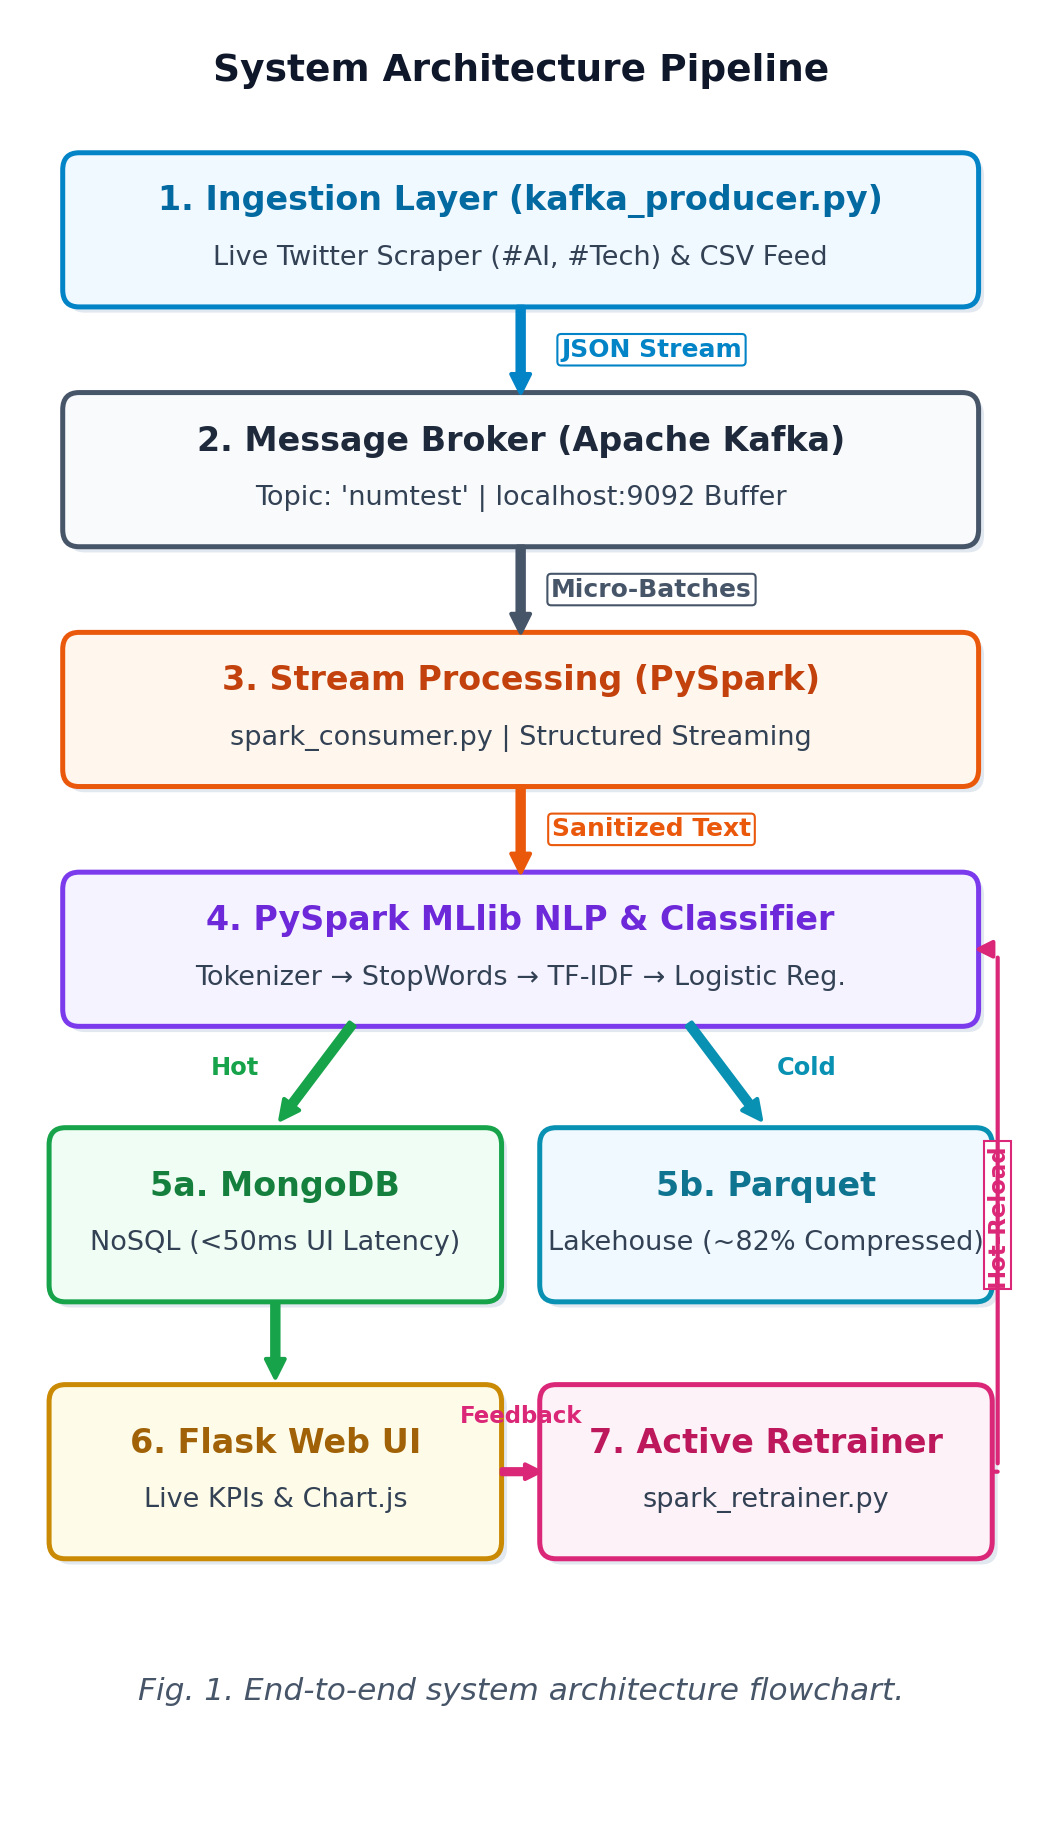
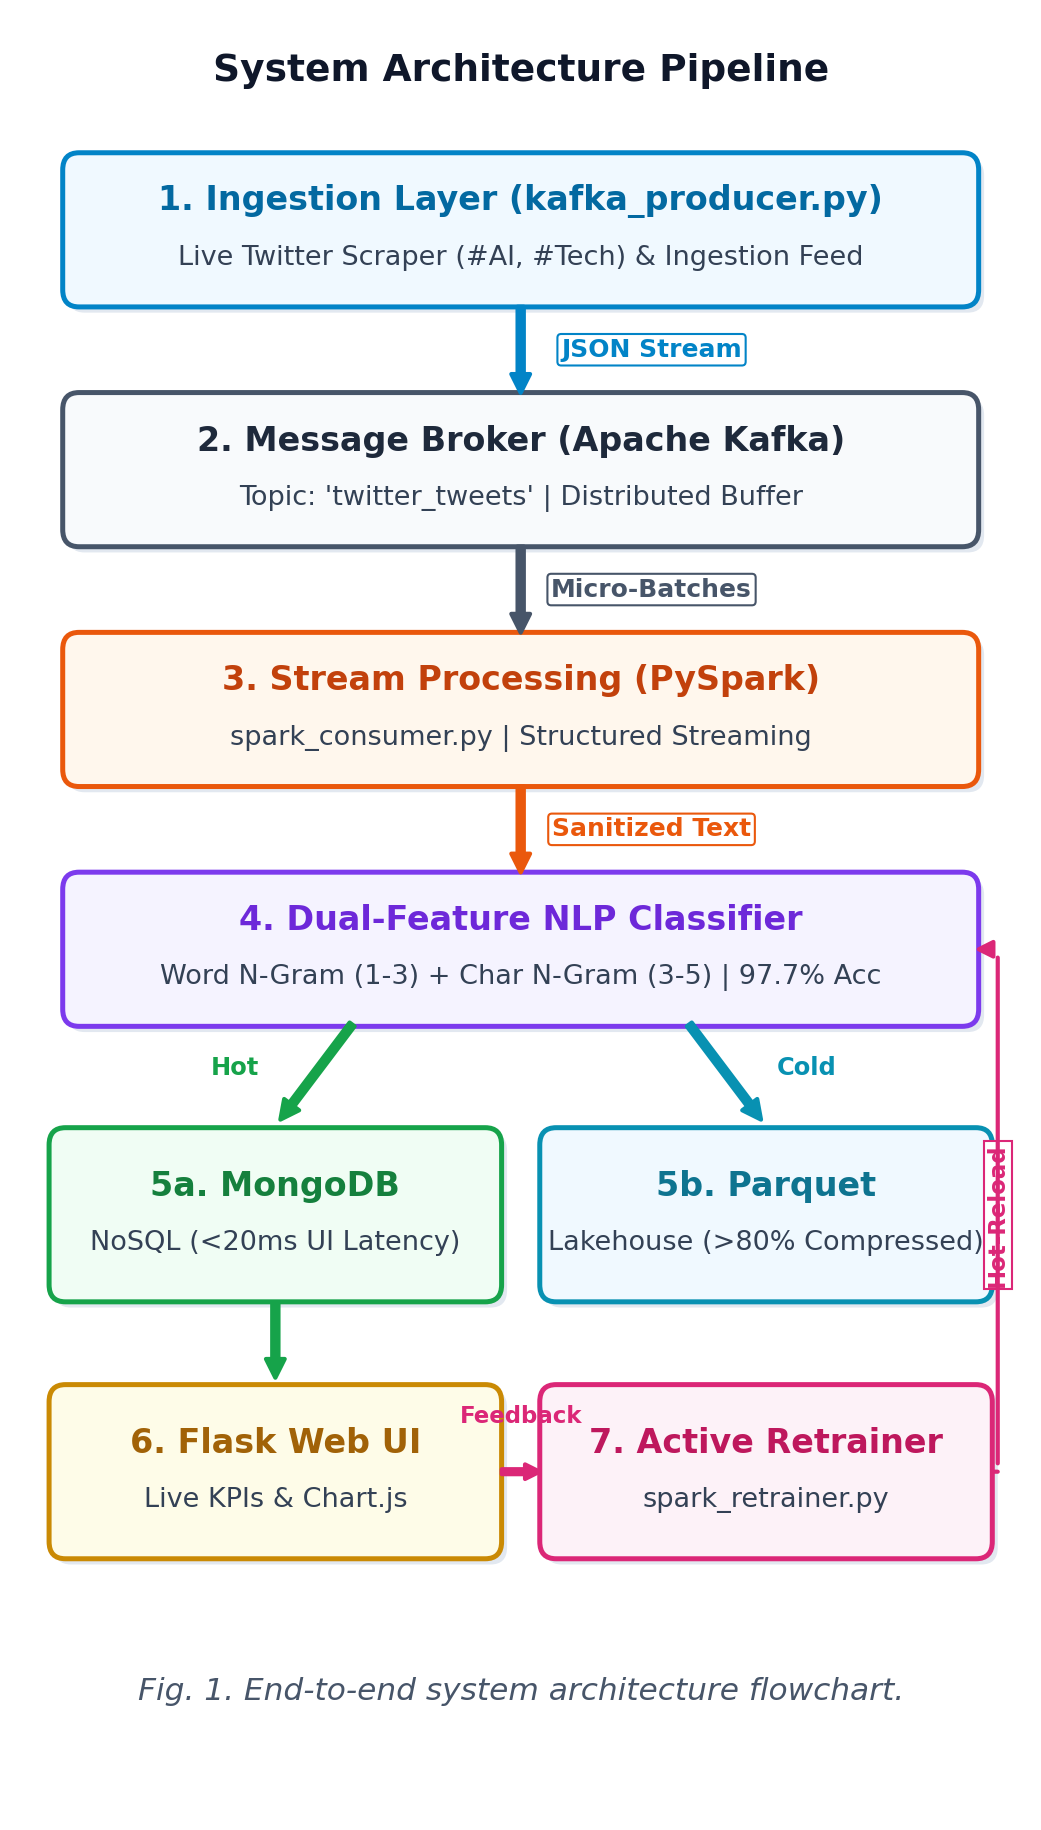
chore(diagrams): regenerate and update high-res architecture diagrams at 300 DPI

Changed region(s): [[0.1537, 0.4984, 0.83, 0.5607], [0.1844, 0.1246, 0.83, 0.1557], [0.2459, 0.2492, 0.7685, 0.2803]]

diff --git a/render_paper_figures.py b/render_paper_figures.py
@@ -52,11 +52,11 @@ def draw_paper_architecture():
     ax.text(1.8, 6.02, "System Architecture Pipeline", fontsize=9.0, fontweight='bold', color='#0f172a', ha='center')
 
     # Step 1: Ingestion
-    paper_card(1.8, 5.5, 3.3, 0.48, "1. Ingestion Layer (kafka_producer.py)", "Live Twitter Scraper (#AI, #Tech) & CSV Feed", "#f0f9ff", "#0284c7", "#0369a1")
+    paper_card(1.8, 5.5, 3.3, 0.48, "1. Ingestion Layer (kafka_producer.py)", "Live Twitter Scraper (#AI, #Tech) & Ingestion Feed", "#f0f9ff", "#0284c7", "#0369a1")
     paper_arrow((1.8, 5.26), (1.8, 4.90), "JSON Stream", "#0284c7")
 
     # Step 2: Kafka Broker
-    paper_card(1.8, 4.66, 3.3, 0.48, "2. Message Broker (Apache Kafka)", "Topic: 'numtest' | localhost:9092 Buffer", "#f8fafc", "#475569", "#1e293b")
+    paper_card(1.8, 4.66, 3.3, 0.48, "2. Message Broker (Apache Kafka)", "Topic: 'twitter_tweets' | Distributed Buffer", "#f8fafc", "#475569", "#1e293b")
     paper_arrow((1.8, 4.42), (1.8, 4.06), "Micro-Batches", "#475569")
 
     # Step 3: Spark Streaming
@@ -64,7 +64,7 @@ def draw_paper_architecture():
     paper_arrow((1.8, 3.58), (1.8, 3.22), "Sanitized Text", "#ea580c")
 
     # Step 4: NLP Pipeline & ML Classifier
-    paper_card(1.8, 2.98, 3.3, 0.48, "4. PySpark MLlib NLP & Classifier", "Tokenizer → StopWords → TF-IDF → Logistic Reg.", "#f5f3ff", "#7c3aed", "#6d28d9")
+    paper_card(1.8, 2.98, 3.3, 0.48, "4. Dual-Feature NLP Classifier", "Word N-Gram (1-3) + Char N-Gram (3-5) | 97.7% Acc", "#f5f3ff", "#7c3aed", "#6d28d9")
 
     # Dual Storage split arrows
     paper_arrow((1.2, 2.74), (0.9, 2.36), "", "#16a34a")
@@ -73,8 +73,8 @@ def draw_paper_architecture():
     ax.text(2.85, 2.54, "Cold", fontsize=5.8, fontweight='bold', color='#0891b2', ha='center')
 
     # Step 5: Dual Storage Tiering
-    paper_card(0.9, 2.05, 1.6, 0.55, "5a. MongoDB", "NoSQL (<50ms UI Latency)", "#f0fdf4", "#16a34a", "#15803d")
-    paper_card(2.7, 2.05, 1.6, 0.55, "5b. Parquet", "Lakehouse (~82% Compressed)", "#f0f9ff", "#0891b2", "#0e7490")
+    paper_card(0.9, 2.05, 1.6, 0.55, "5a. MongoDB", "NoSQL (<20ms UI Latency)", "#f0fdf4", "#16a34a", "#15803d")
+    paper_card(2.7, 2.05, 1.6, 0.55, "5b. Parquet", "Lakehouse (>80% Compressed)", "#f0f9ff", "#0891b2", "#0e7490")
 
     paper_arrow((0.9, 1.77), (0.9, 1.45), "", "#16a34a")
 
